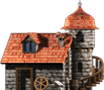
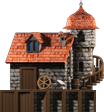
* neue Tür Basis, + Tür Gilde
git-svn-id: http://opensvn.csie.org/Luftherrschaft@289 417ea86b-d6b9-46eb-afa4-e379d024af20

diff --git a/Luftherrschaft.c4d/Structures.c4d/Guild.c4d/Script.c b/Luftherrschaft.c4d/Structures.c4d/Guild.c4d/Script.c
@@ -5,7 +5,6 @@
 #include DOOR
 
 protected func Initialize() {
-	SetEntrance(1);
 	hOldContents = CreateHash();
 }
 protected func ContainedUp(object pClonk) {
